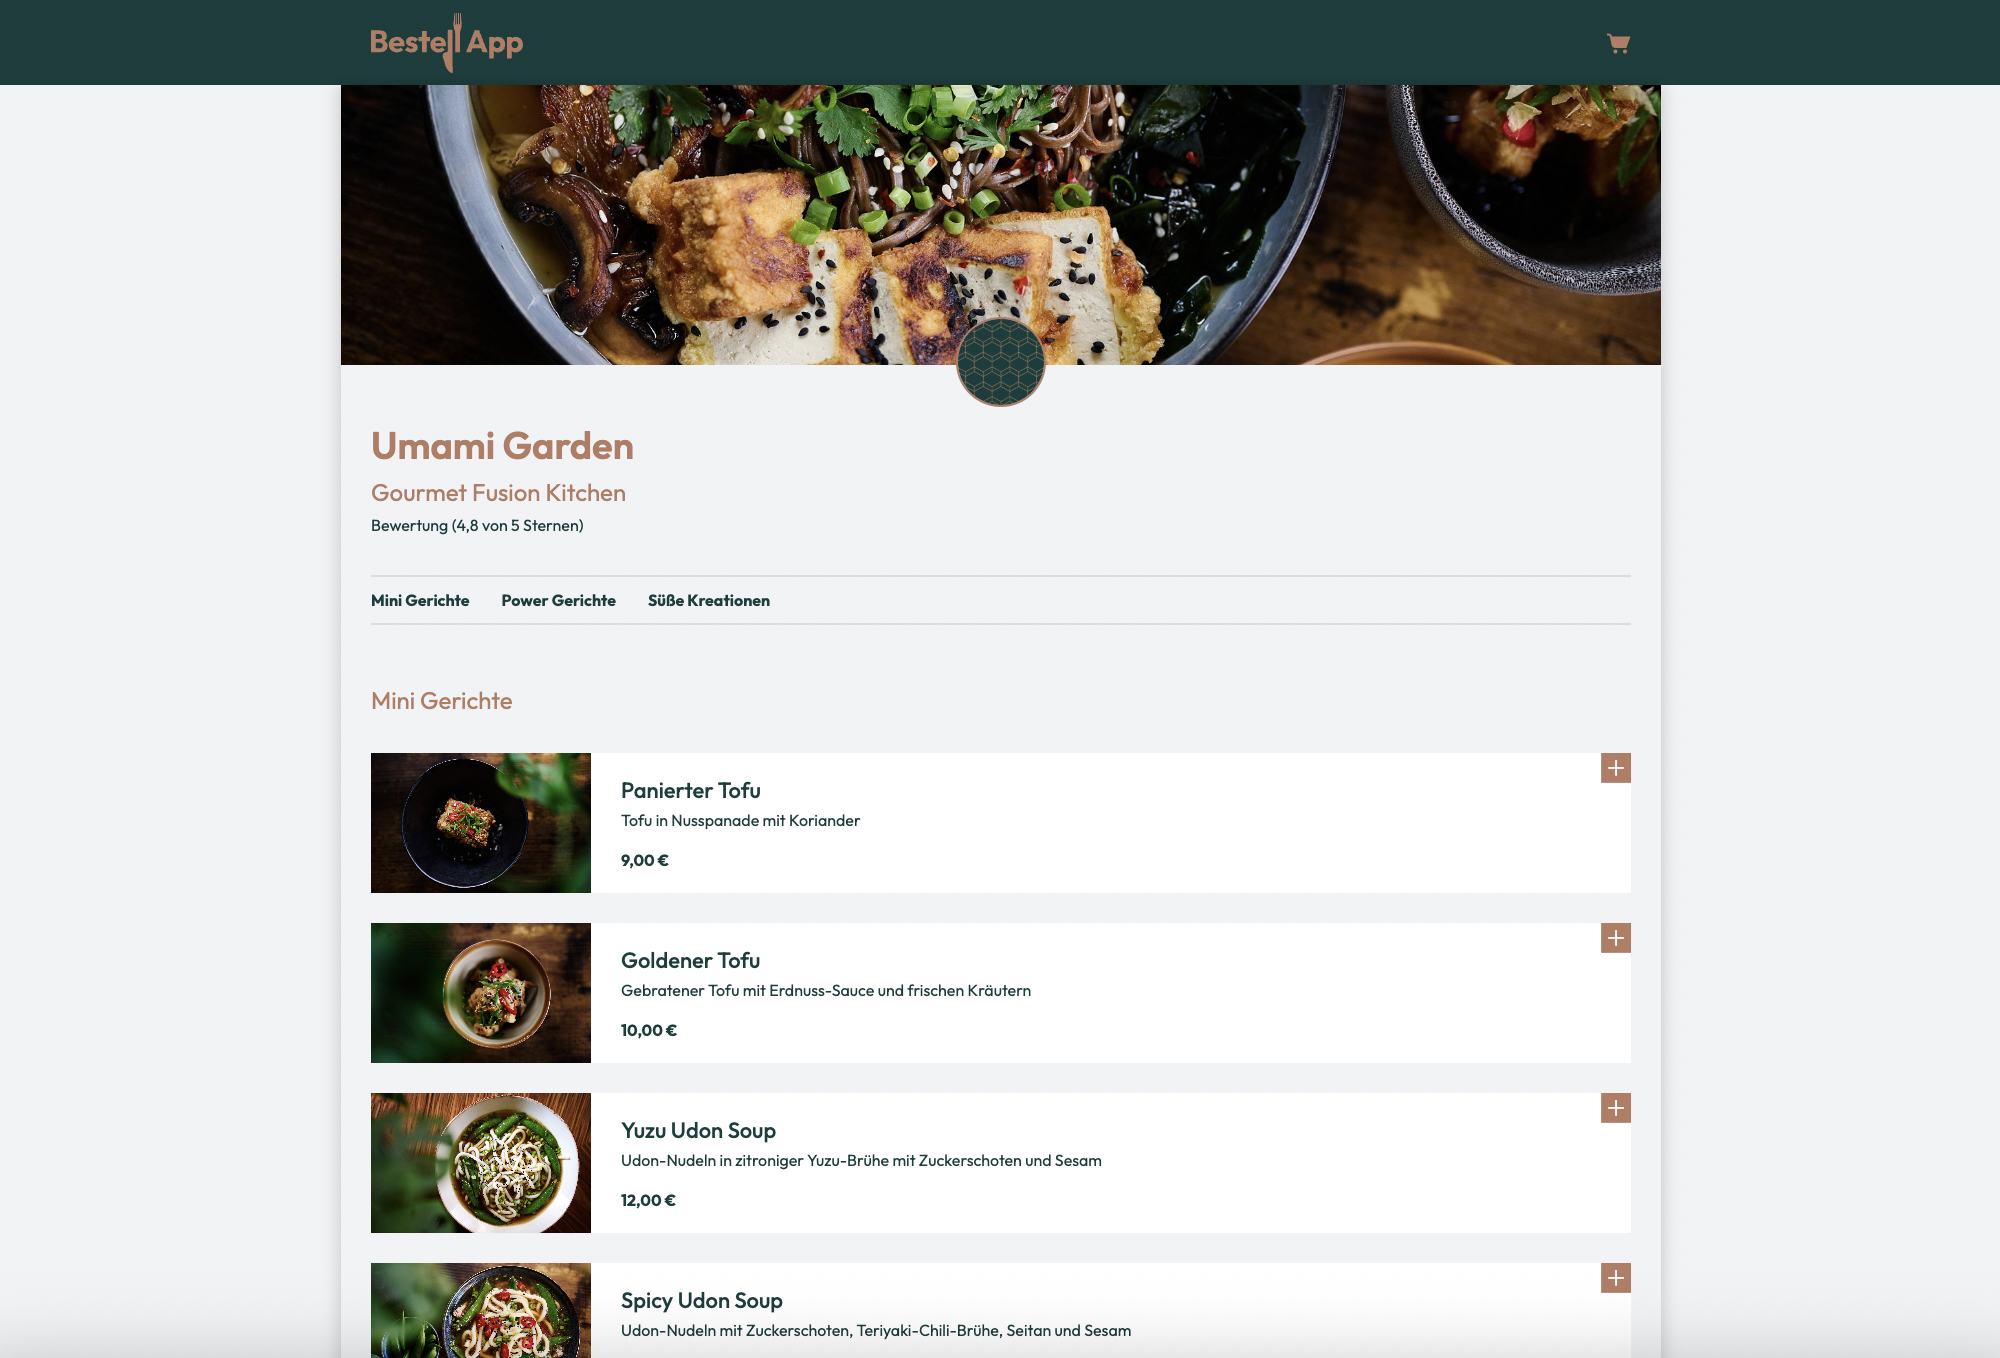
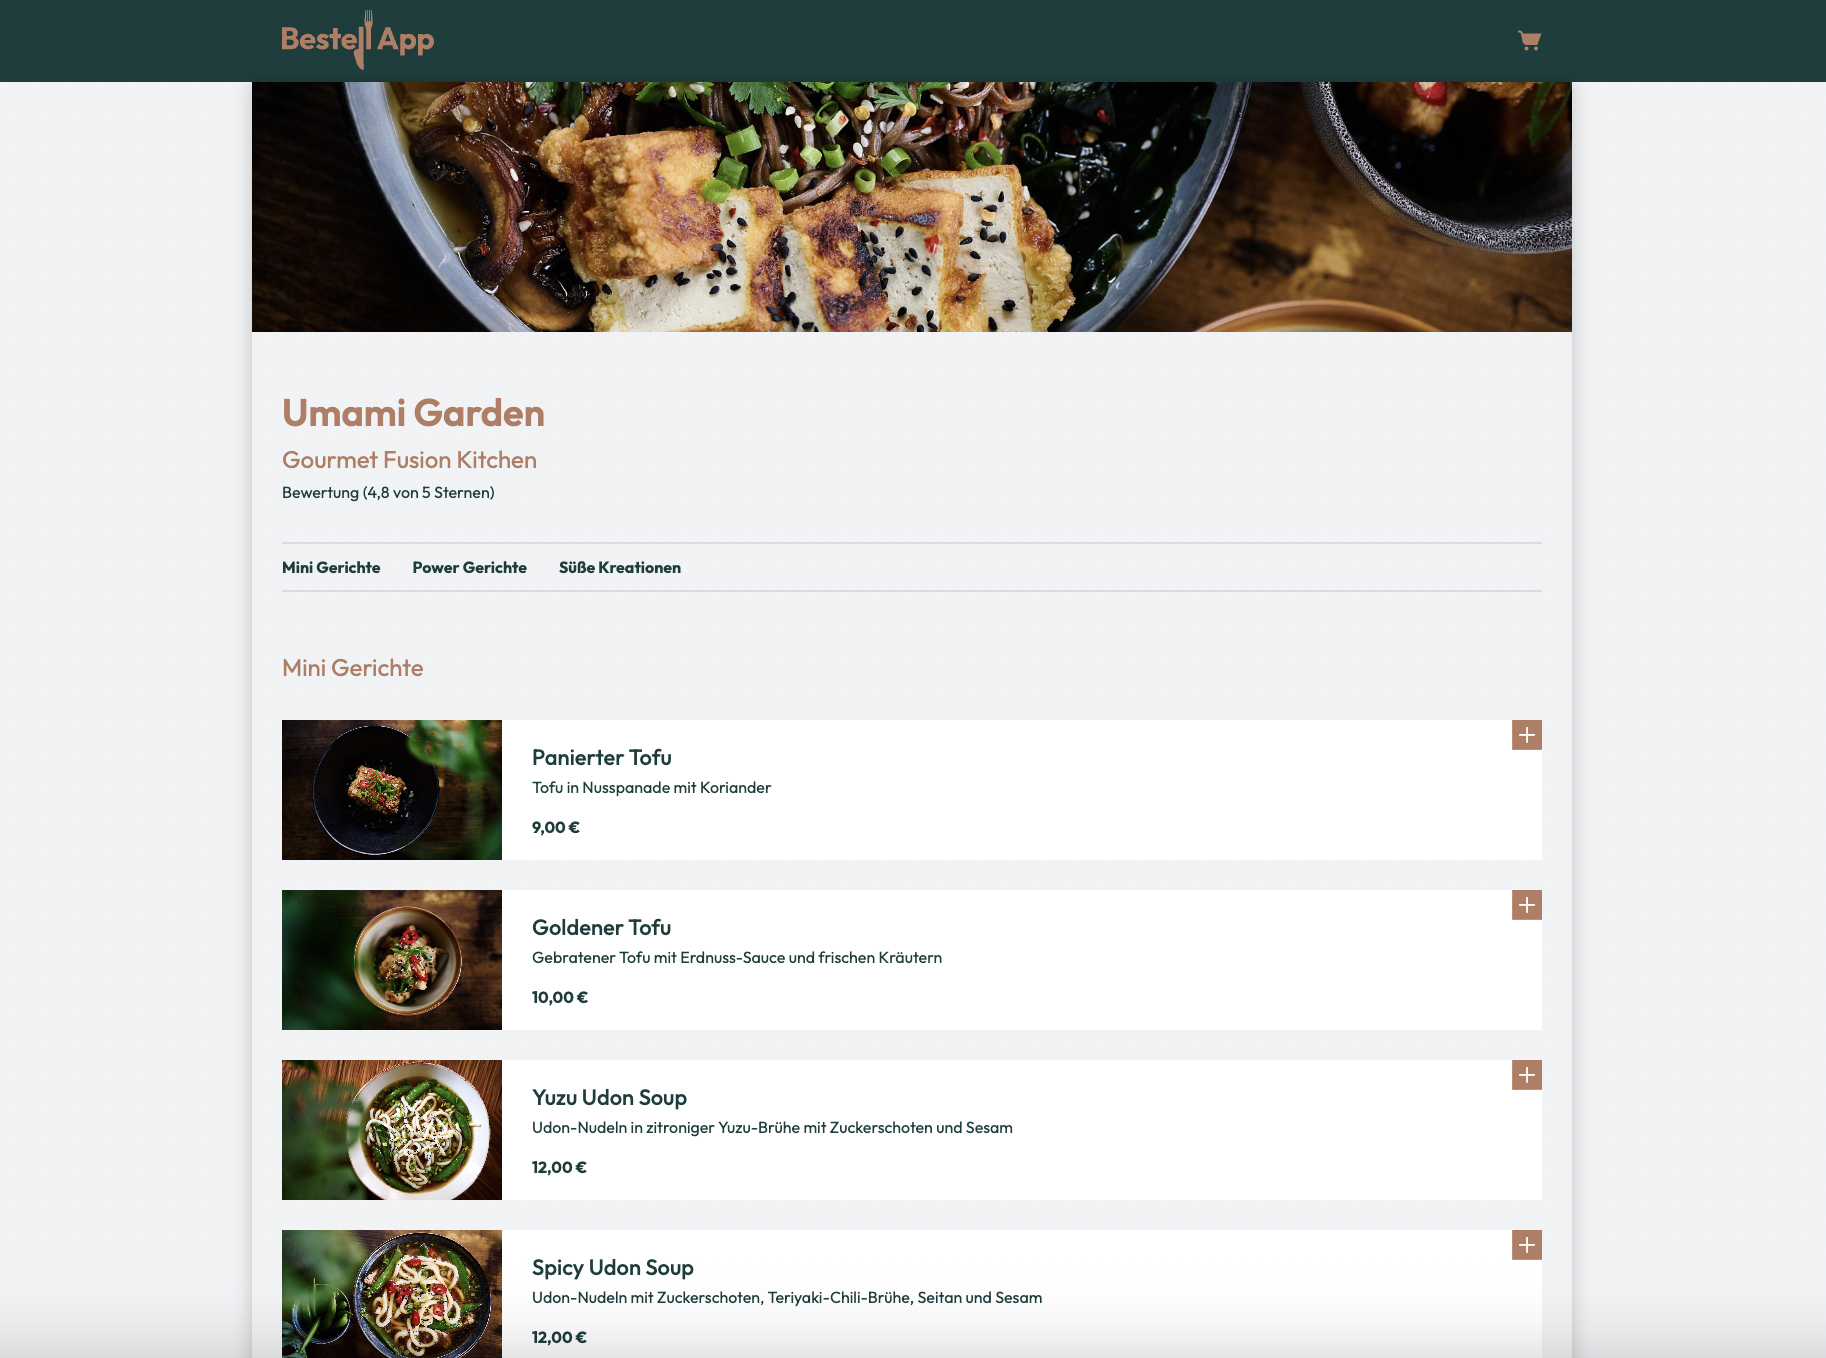
refactor: images updated

diff --git a/style.css b/style.css
@@ -101,7 +101,7 @@ a:hover {
     display: block;
 }
 
-.round_img {
+/* .round_img {
     border-radius: 50%;
     object-fit: cover;
     height: 90px;
@@ -112,7 +112,7 @@ a:hover {
     left: 50%;
     bottom: -42px;
     transform: translateX(-50%);
-}
+} */
 
 .content_restaurant_titlebox, nav, #dishesContent {
     padding-left: 30px;
